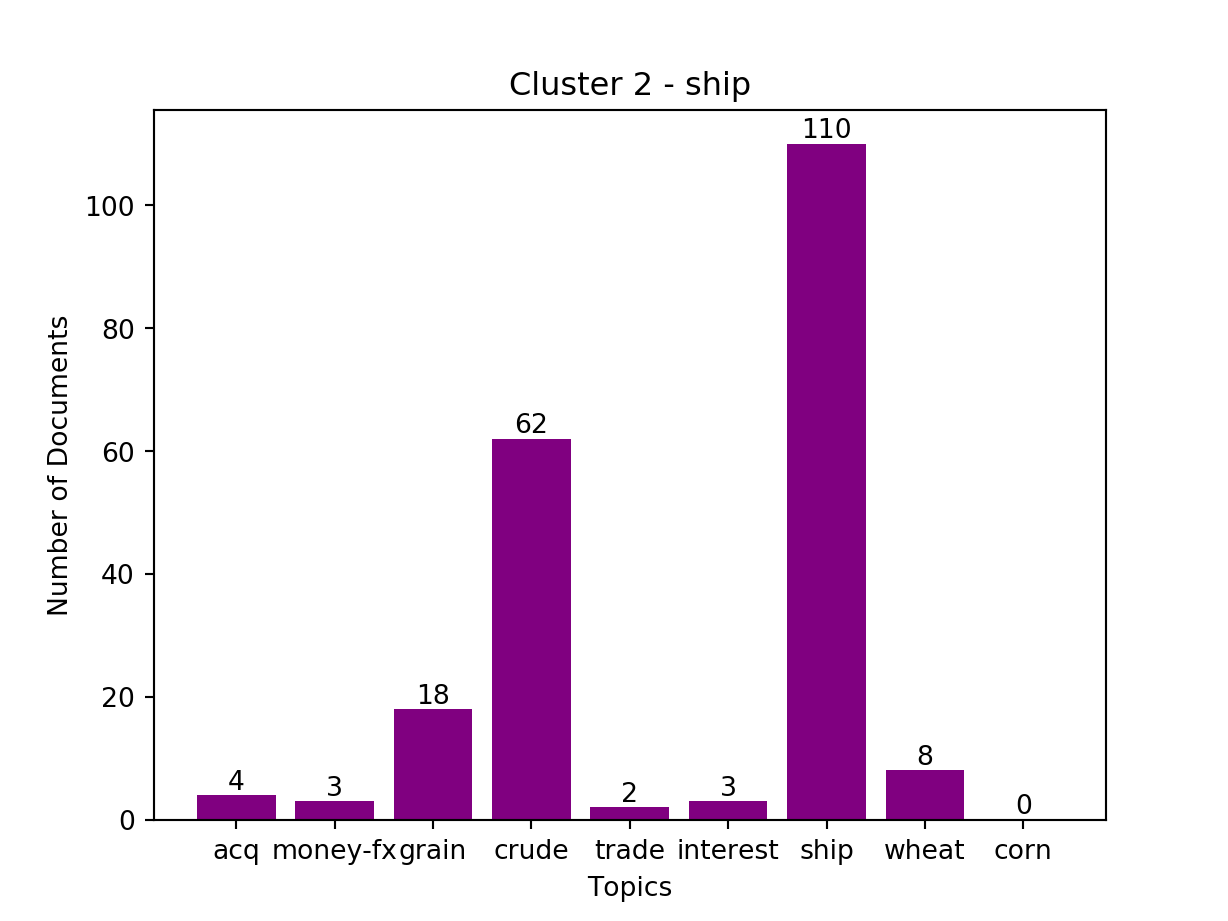
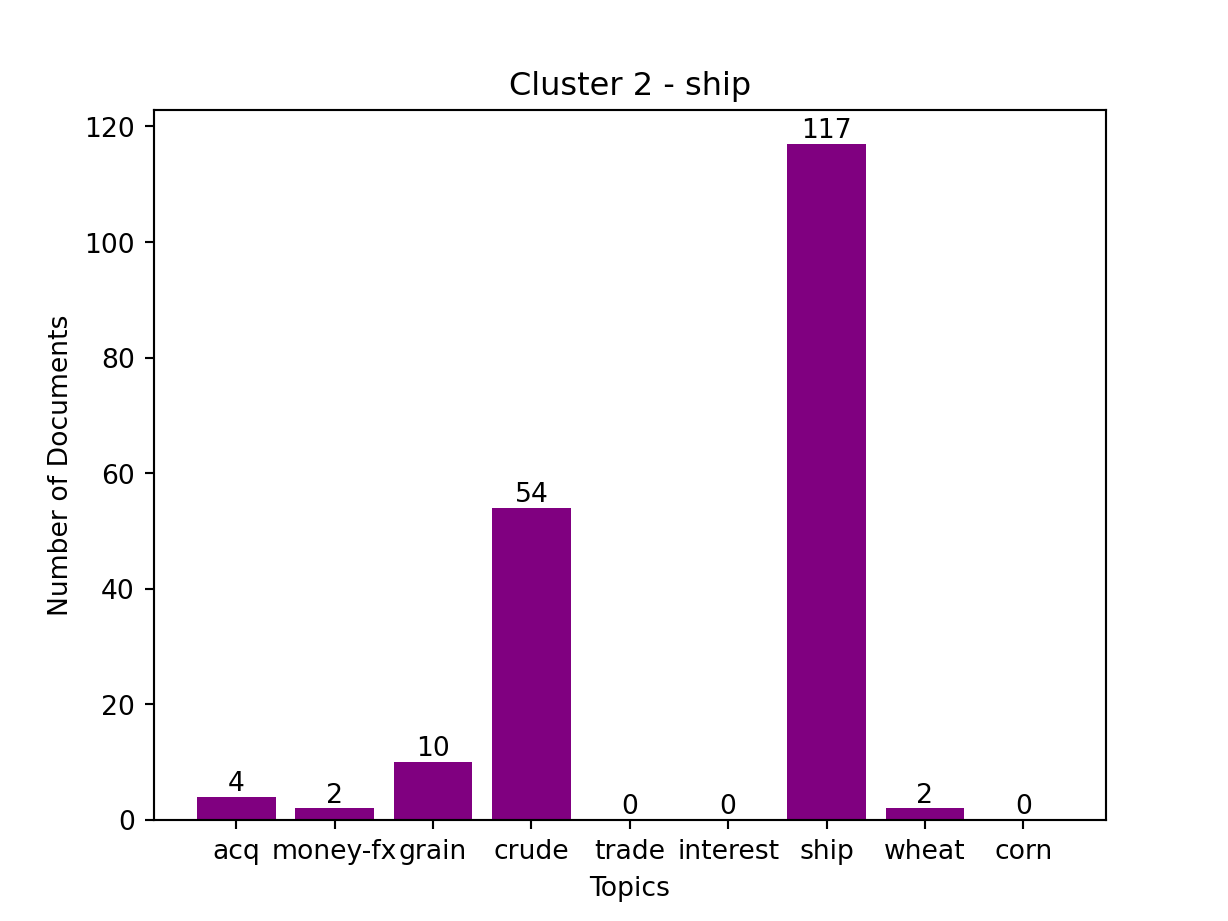
Files with images

diff --git a/ex3_prob_models/ex3.py b/ex3_prob_models/ex3.py
@@ -16,13 +16,10 @@ import pandas as pd
 """"""""""""""""""""""""""""""""""""""
 
 # Parameters of the EM algorithm
-EPSILON_THRESHOLD = 0.00001
+EPSILON_THRESHOLD = 0.0001
 DEFAULT_K = 10
-LAMBDA_PARAM = 0.968
-# TODO: Revert threshold
-STOPPING_THRESHOLD = 0.0001
-# STOPPING_THRESHOLD = 1.0
-# STOPPING_THRESHOLD = 10000.0
+LAMBDA_PARAM = 1.0
+STOPPING_THRESHOLD = 1.0
 
 # Input arguments
 development_set_filename = "dataset/develop.txt"
@@ -92,9 +89,6 @@ class ClusterParams:
         """
         Calculating alpha_i and handling underflow via the threshold solution suggested in the supplemental material.
         """
-        # TODO: Update this comment?
-        # Calculating alpha_i for the current cluster (formula 2 in the supplemental material).
-
         alpha_prior = sum(cluster_w_ti) / num_of_articles
 
         # If alpha_j becomes less than the threshold we fix alpha_j to be the threshold.
@@ -113,7 +107,7 @@ class ClusterParams:
 
 def test_alpha_probabilities_sum_to_1(clusters: List[Cluster]):
     all_alphas_sum_after_normalization = sum([cluster.cluster_params.normalized_alpha_prior for cluster in clusters])
-    # assert abs(all_alphas_sum_after_normalization - 1.0) < 0.0005
+    assert abs(all_alphas_sum_after_normalization - 1.0) < 0.0005
 
 
 def _parse_input_file_to_articles(file: List[str], prefix: str) -> List[Article]:
@@ -251,7 +245,6 @@ def calc_e_step_z_i(cluster: Cluster, article: Article) -> float:
     """
     sum_of_n_t_k_times_ln_prob_of_word_k_in_cluster_i = 0.0
 
-    # TODO: Check if it is ok to run over all words in the document instead of all words in vocab.
     for word_k, word_k_count in article.words_counter.items():
         # The frequency of word k in document t.
         n_t_k = word_k_count
@@ -319,7 +312,6 @@ def calc_perplexity(likelihood: float, count_of_words: int) -> float:
     """
     Calculating the mean perplexity per word.
     """
-    # TODO: Check if this value makes sense.
     return math.exp((-1 / count_of_words) * likelihood)
 
 
@@ -353,10 +345,8 @@ def _e_step(all_articles: List[Article], clusters: List[Cluster]) -> List[List[f
     all_w_ti = []
     new_clusters = defaultdict(list)
     for article in all_articles:
-        # TODO: Check if we should really simply sum the clusters_numerators (z_i_t = z_i)
         w_ti_per_cluster = e_step_per_article(article, clusters)
         all_w_ti.append(w_ti_per_cluster)
-        # TODO: Check if the denominator is necessary, because it is irrelevant when using argmax.
         new_cluster_idx_for_article = np.argmax(w_ti_per_cluster) + 1
         new_clusters[new_cluster_idx_for_article].append(article)
 
@@ -472,15 +462,14 @@ def main():
         print(f"new_likelihood: {new_likelihood}")
 
         if prev_likelihood:
-            assert new_likelihood >= prev_likelihood  # TODO: Remove assert
-            assert new_perplexity <= prev_perplexity  # TODO: Remove assert
+            # assert new_likelihood >= prev_likelihood  # TODO: Remove assert
+            # assert new_perplexity <= prev_perplexity  # TODO: Remove assert
             # Stop the EM algorithm if the likelihood value converges.
             if new_likelihood - prev_likelihood <= STOPPING_THRESHOLD:
                 break
 
         prev_likelihood = new_likelihood
         prev_perplexity = new_perplexity
-        # TODO: Why likelihood is negative?
 
         all_w_ti = _e_step(articles, clusters)  # Performing the E step of the EM algorithm.
         _m_step(articles, clusters, vocab_size, all_w_ti)  # Performing the M step of the EM algorithm.
